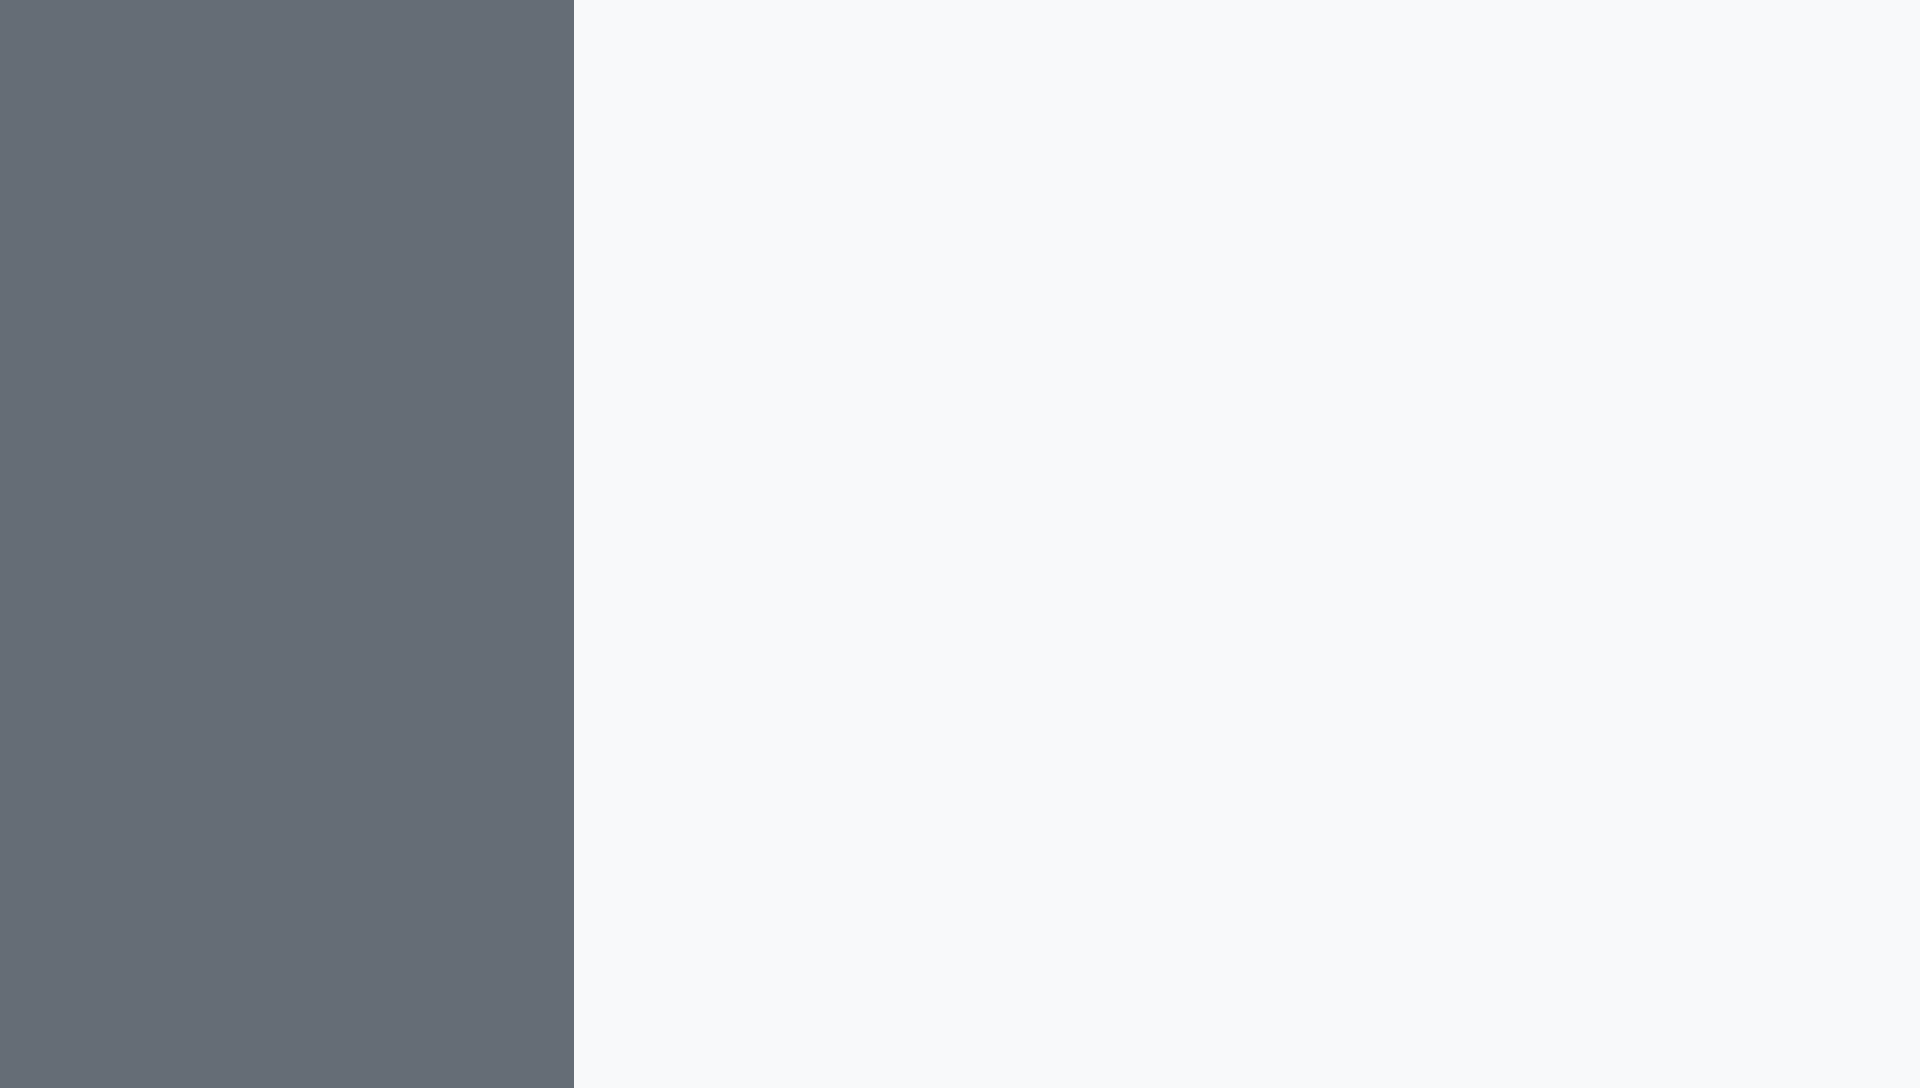
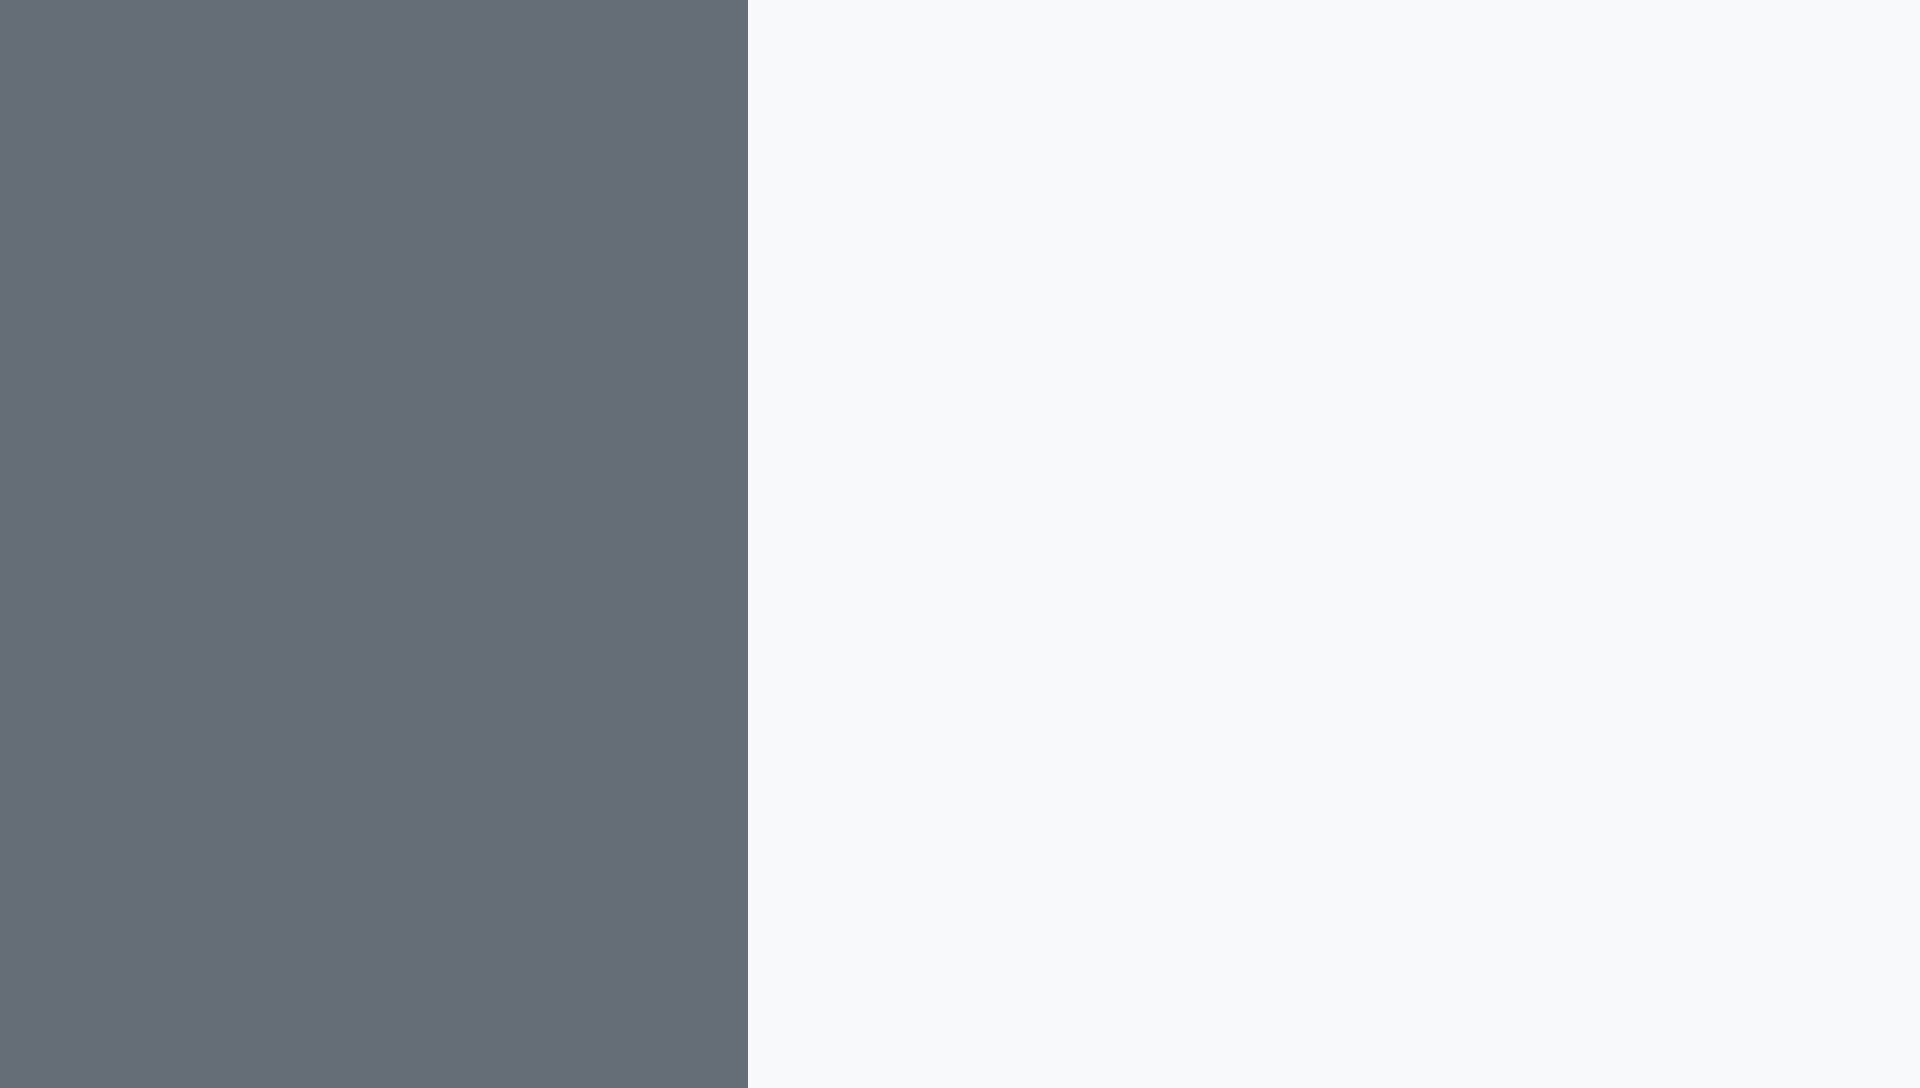
Fixing background image issue

Changed region(s): [[0.2812, 0.0, 0.4062, 1.0]]

diff --git a/src/components/About.js b/src/components/About.js
@@ -14,7 +14,7 @@ const About = () => {
 
   return (
     <CSSTransition in={window.location.pathname.startsWith('/about')} classNames="fade" timeout={1600}>
-      <div style={{ backgroundImage:`url(${bgimage})`, height: "100vh", margin: 0, padding: 0, backgroundAttachment: 'fixed' }}>
+      <div className="background-img" style={{ backgroundImage:`url(${bgimage})`, height: "100vh", margin: 0, padding: 0, backgroundAttachment: 'fixed' }}>
         <Container className="d-flex vh-100">
           <Row className="m-auto align-self-center">
             <Col xs={{ span: 3, offset: 2 }}>

diff --git a/src/App.css b/src/App.css
@@ -150,6 +150,12 @@
   height: 60px;
 }
 
+.background-img{
+  -webkit-background-size: cover;
+  -moz-background-size: cover;
+  -o-background-size: cover;
+  background-size: cover;
+}
 div{
   padding: 0;
 }
